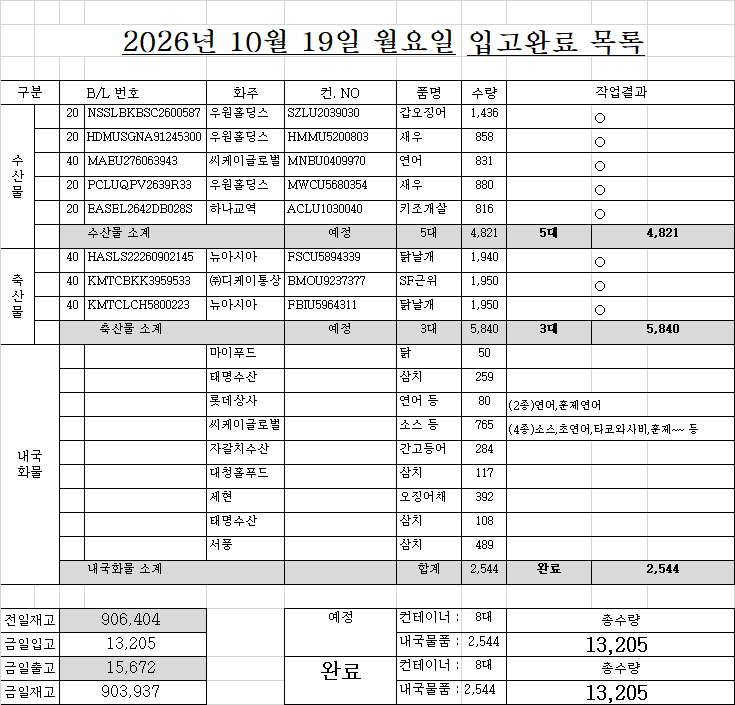
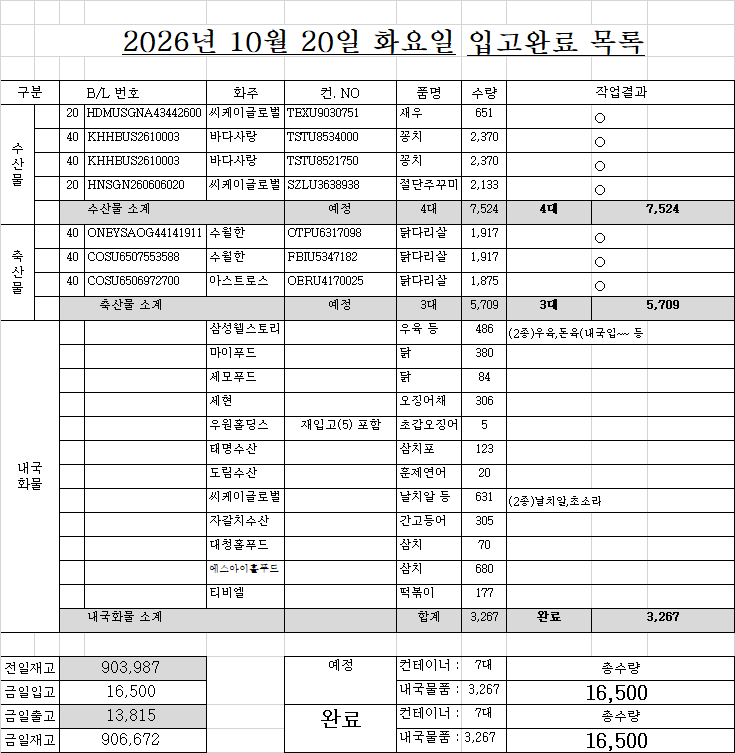
1020

diff --git a/list.html b/list.html
@@ -171,50 +171,48 @@
 <!-- ★★★★★★ 따로 빼 놔야한다. 복붙하면 첫칸 비어도 되는데, 여기서는 첫칸비우면 당겨진다. -->
 <!-- ★ 엑셀범위를 브라우저 textarea에 붙여넣으면 첫셀 비어도 제대로 되는데... HTML에 붙여놓은 자료는 처음셀이 비어있으면 당겨짐 -->
 <div class="d-none" id="원본text_리스트1부터w요약열까지">작성	면허	B/LNO.	화주	컨테이너NO.	품명	수량	반입NO.	입항일	구분	도착일	도착시간	구분	운도VBA	04/27 월 07:21	화찰BL	화찰 선명	화물관리번호	화찰수량	화찰중량	화찰입항	리스트시트기준열	
-1		EGLV235601904750	씨에이치씨	EMCU5816020	새우	924 		10/7	1			20	.BPT신선대	면허?, CY : 신선대감만터미널(주) 신선대CY, 컨진행 : 입항보고 정정완료, 선사 : 장금상선(주)	EGLV235601904750	SURABAYA VOYAGER	26SNKO3682I-8021-	924 	6,930.00 	2026.10.07	10/19 월 16:33	
-1	○	HDMUSGNA43442600	씨케이글로벌	TEXU9030751	새우	651 		10/16	1			20	.HPNT	면허?, CY : 에이치엠엠피에스에이신항만(주), 컨진행 : 반입완료, 선사 : 에이치엠엠(주)	HDMUSGNA43442600	HMM MASTER	26HDMUA569I-0124-	651 	9,439.50 	2026.10.16	조회정보	
-1		HNSGN260606020	씨케이글로벌	SZLU3638938	절단주꾸미	2,133 		10/19	1			20	(ONE).HJNC	면허?, CY : 한진부산컨테이너터미널(주), 컨진행 : 입항적재화물목록 심사완료, 선사 : 오션네트워크익스프레스코리아(주), 포딩 : 마루로직스틱스 유한회사	HNSGN260606020	ONE MANCHESTER	26ONEY1607I-5010-0001	2,133 	15,997.50 	2026.10.19	적재	57
-1	○	ONEYSAOG44141911	수월한	OTPU6317098	닭다리살	1,917 		10/16	2				.HJNC	에이스로지스틱(주), CY : 한진부산컨테이너터미널(주), 컨진행 : 반입완료, 선사 : 오션네트워크익스프레스코리아(주)	ONEYSAOG44141911	ONE TRUTH	26ONEY1641I-7262-	1,917 	23,962.50 	2026.10.16	4,617 	3줄
-1	○	COSU6507553588	수월한	FBIU5347182	닭다리살	1,917 		10/17	2				.BNCT	에이스로지스틱(주), CY : (주)비엔씨티(CY), 컨진행 : 반입완료, 선사 : (주)오오씨엘코리아	COSU6507553588	OOCL BERLIN	26OOLU0156I-3032-	1,917 	23,962.50 	2026.10.17	6,156 	4줄
-1	○	COSU6506972700	아스트로스	OERU4170025	닭다리살	1,875 		10/17	2				.BNCT	(주)골든로지텍, CY : (주)비엔씨티(CY), 컨진행 : 반입완료, 선사 : (주)오오씨엘코리아	COSU6506972700	OOCL BERLIN	26OOLU0156I-3079-	1,875 	23,692.50 	2026.10.17	7,695 	5줄
-2	○	COSU6505268322	마이푸드	FBIU5759045	닭다리살	1,960 		10/17	2				.BNCT	(주)이지트랜스, CY : (주)비엔씨티(CY), 컨진행 : 반입완료, 선사 : (주)오오씨엘코리아	COSU6505268322	OOCL BERLIN	26OOLU0156I-3020-	1,960 	24,500.00 	2026.10.17	9,234 	6줄
-2	○	COSU6505268325	씨제이프레시웨이㈜	OTPU6155886	닭다리살	1,960 		10/17	2				.BNCT	면허?, CY : (주)비엔씨티(CY), 컨진행 : 반입완료, 선사 : (주)오오씨엘코리아	COSU6505268325	OOCL BERLIN	26OOLU0156I-3082-	1,960 	24,500.00 	2026.10.17	구분	대수
-2	○	KHHBUS2609010	바다사랑	TSTU8507725	꽁치	2,360 		10/19	1				(TS).BPT감만	면허?, CY : 신선대감만터미널(주) 감만CY, 컨진행 : 입항적재화물목록 운항정보 정정, 선사 : 덕상티에스라인스(주), 포딩 : (주)가나해운	KHHBUS2609010	TS PUSAN	26TSLUB127I-1033-0001	6,990 	74,470.00 	2026.10.19	출고입고	4주간
-2	○	KHHBUS2609010	바다사랑	TSTU8521003	꽁치	2,320 		10/19	1				(TS).BPT감만	면허?, CY : 신선대감만터미널(주) 감만CY, 컨진행 : 입항적재화물목록 운항정보 정정, 선사 : 덕상티에스라인스(주), 포딩 : (주)가나해운	KHHBUS2609010	TS PUSAN	26TSLUB127I-1033-0001	6,990 	74,470.00 	2026.10.19	1일 7/5	9바닥줄
-2	○	KHHBUS2609010	바다사랑	OTPU6604884	꽁치	2,310 		10/19	1				(TS).BPT감만	면허?, CY : 신선대감만터미널(주) 감만CY, 컨진행 : 입항적재화물목록 운항정보 정정, 선사 : 덕상티에스라인스(주), 포딩 : (주)가나해운	KHHBUS2609010	TS PUSAN	26TSLUB127I-1033-0001	6,990 	74,470.00 	2026.10.19	14,326 	9.3
-2	○	ONEYSGZG09018700	씨케이글로벌	ONEU9302760	열빙어 등	1,938 		10/19	1				.HJNC	면허?, CY : 한진부산컨테이너터미널(주), 컨진행 : 보세운송 신고 접수, 선사 : 오션네트워크익스프레스코리아(주)	ONEYSGZG09018700	ONE MANCHESTER	26ONEY1607I-5277-	1,938 	23,075.80 	2026.10.19	14,430 	9.4
-2	○	TC826100141F	씨케이글로벌	WHLU7423793	절단주꾸미	2,120 		10/19	1			20	(완하이).BPT감만		TC826100141F	WAN HAI 325	26WHLUNS24I-1030-0001	2,120 	15,900.00 	2026.10.19	내국제외	
-2	○	ONEYSGZG09124500	우원홀딩스	SZLU2038158	새우	975 		10/19	1			20			ONEYSGZG09124500	ONE MANCHESTER	26ONEY1607I-5278-	975 	4,575.00 	2026.10.19	구분	대수
-3	○	KHHBUS2610003	바다사랑	TSTU8534000	꽁치	2,370 		10/19	1				(TS).BPT감만	면허?, CY : 신선대감만터미널(주) 감만CY, 컨진행 : 입항적재화물목록 운항정보 정정, 선사 : 덕상티에스라인스(주), 포딩 : (주)가나해운	KHHBUS2610003	TS PUSAN	26TSLUB127I-1047-0001	4,740 	49,790.00 	2026.10.19	수산	15 
-3	○	KHHBUS2610003	바다사랑	TSTU8521750	꽁치	2,370 		10/19	1				(TS).BPT감만	면허?, CY : 신선대감만터미널(주) 감만CY, 컨진행 : 입항적재화물목록 운항정보 정정, 선사 : 덕상티에스라인스(주), 포딩 : (주)가나해운	KHHBUS2610003	TS PUSAN	26TSLUB127I-1047-0001	4,740 	49,790.00 	2026.10.19	축산	38 
-		HDMUSAOA98837200	수월한	HDMU5532775	닭다리살	1,960 		10/16	2				.확인안함								합계	53 
-		ONEYSAOG44149301	대성무역	TTNU8745955	닭다리살	1,960 		10/18	2				.PNIT									
-		HASLS22260901810	뉴아시아	HALU8500976	닭날개	1,917 		10/19	2												화주	대수
-		COSU6453481650	수월한	TEMU9328038	닭다리살	1,917 		10/20	2				.BNCT								수월한	13
-		COSU6508130956	씨제이프레시웨이㈜	OERU4188960	닭다리살	1,960 		10/20	2				.BNCT								씨케이글로벌	5
-		ONEYSGNGZ3458700	우원홀딩스	ONEU8007820	새우	930 		10/20	1			20									바다사랑	5
-		ONEYSGNGZ5842600	우원홀딩스	TRIU6643500	새우	750 		10/20	1			20									참트레이딩	5
-		HDMUSAOA23097900	수월한	TCLU1310837	닭다리살	1,958 		10/21	2				.HPNT								대성무역	3
-		HDMUSAOA02881000	수월한	TLLU1087510	닭다리살	1,953 		10/21	2				.HPNT								대상 주식회사	3
-		YMJAB951092475	아스트로스	YMLU5487169	닭다리살	1,960 		10/21	2												㈜이마트	3
-		MEDUWE282837	대상 주식회사	MEDU9086780	닭다리살	1,980 		10/22	2												우원홀딩스	3
-		HLCURTM260763821	씨케이글로벌	HLBU9194112	열빙어알	890 		10/22	1				.PNC								씨제이프레시웨이㈜	2
-		KMTCLCH5820283	뉴아시아(동일)	FBIU5896428	닭고기	1,950 		10/23	2												뉴아시아	2
-		MEDUR3384324	㈜이마트	MEDU9615225	닭다리살			10/23	2				.PNC			MSC JUBILEE IX					아스트로스	2
-		LMM0810928?	(주)우원	TLLU1034167	새우	1,800 		10/24	1			40	.BNCT								씨에이치씨	1
-		COSU6508305260	대상 주식회사	OERU4050122	닭다리살	1,916 		10/24	2				.BNCT								뉴아시아(동일)	1
-		MAEUJBS327643	수월한	MNBU0422036	닭다리살	1,958 		10/25	2				.PNC								주식회사 아스트로스	1
-		HDMUSAOA46495702	아스트로스	HMMU5506250	닭다리살	1,960 		10/25	2				.확인안함								(주)우원	1
-		MAEUJBS329506	㈜이마트	MNBU3397087	SR조각정육(하프컷)			10/25	2				?????,PNC			MAERSK EUREKA					혜성프로비젼	1
-		MAEUJBS327992	㈜이마트	MNBU3734589	SR조각정육(하프컷)			10/25	2				?????,PNC			SAN LORENZO					마이푸드	1
-		MAEUJBS327452	혜성프로비젼	MNBU3583836	닭다리살	1,958 		10/25	2				.PNC								수월한 주식회사	1
-		YMJAB951092501	수월한	YMLU5523693	닭다리살	1,960 		10/27	2													
-		MAEUJBS330859	참트레이딩	MNBU0485306	닭다리살	1,958 		10/31	2				.PNC									
-		HDMUSAOA59781501	대성무역	HMMU5417131	닭장각	1,568 		11/1	2				.확인안함									
-		MEDUAAI37286	참트레이딩	MEDU9035741	닭다리살	1,958 		11/2	2				.PNIT									
-		MEDUWE285228	참트레이딩	SZLU9086965	닭다리살	1,958 		11/2	2				.PNIT									
+1		EGLV235601904750	씨에이치씨	EMCU5816020	새우	924 		10/7	1			20	.BPT신선대	면허?, CY : 신선대감만터미널(주) 신선대CY, 컨진행 : 입항보고 정정완료, 선사 : 장금상선(주)	EGLV235601904750	SURABAYA VOYAGER	26SNKO3682I-8021-	924 	6,930.00 	2026.10.07	10/20 화 16:46	
+1	○	KHHBUS2609010	바다사랑	TSTU8507725	꽁치	2,360 		10/19	1				(TS).BPT감만	(주)에스에스물류, CY : 신선대감만터미널(주) 감만CY, 컨진행 : 보세운송 신고 수리, 선사 : 덕상티에스라인스(주), 포딩 : (주)가나해운	KHHBUS2609010	TS PUSAN	26TSLUB127I-1033-0001	6,990 	74,470.00 	2026.10.19	조회정보	
+1	○	KHHBUS2609010	바다사랑	TSTU8521003	꽁치	2,320 		10/19	1				(TS).BPT감만	(주)에스에스물류, CY : 신선대감만터미널(주) 감만CY, 컨진행 : 보세운송 신고 수리, 선사 : 덕상티에스라인스(주), 포딩 : (주)가나해운	KHHBUS2609010	TS PUSAN	26TSLUB127I-1033-0001	6,990 	74,470.00 	2026.10.19	적재	57
+1	○	KHHBUS2609010	바다사랑	OTPU6604884	꽁치	2,310 		10/19	1				(TS).BPT감만	(주)에스에스물류, CY : 신선대감만터미널(주) 감만CY, 컨진행 : 보세운송 신고 수리, 선사 : 덕상티에스라인스(주), 포딩 : (주)가나해운	KHHBUS2609010	TS PUSAN	26TSLUB127I-1033-0001	6,990 	74,470.00 	2026.10.19	4,617 	3줄
+1	○	ONEYSGZG09018700	씨케이글로벌	ONEU9302760	열빙어 등	1,938 		10/19	1				.HJNC	(주)이지트랜스, CY : 한진부산컨테이너터미널(주), 컨진행 : 반입완료, 선사 : 오션네트워크익스프레스코리아(주)	ONEYSGZG09018700	ONE MANCHESTER	26ONEY1607I-5277-	1,938 	23,075.80 	2026.10.19	6,156 	4줄
+1	○	TC826100141F	씨케이글로벌	WHLU7423793	절단주꾸미	2,120 		10/19	1			20	(완하이).BPT감만	(주)이지트랜스, CY : 신선대감만터미널(주) 감만CY, 컨진행 : 하선신고 수리완료, 선사 : 만해항운 한국(주), 포딩 : 주식회사 골드웨이	TC826100141F	WAN HAI 325	26WHLUNS24I-1030-0001	2,120 	15,900.00 	2026.10.19	7,695 	5줄
+1	○	ONEYSGZG09124500	우원홀딩스	SZLU2038158	새우	975 		10/19	1			20		(주)에스에스물류, CY : 한진부산컨테이너터미널(주), 컨진행 : 입항적재화물목록 운항정보 정정, 선사 : 오션네트워크익스프레스코리아(주)	ONEYSGZG09124500	ONE MANCHESTER	26ONEY1607I-5278-	975 	4,575.00 	2026.10.19	9,234 	6줄
+1	○	COSU6505268322	마이푸드	FBIU5759045	닭다리살	1,960 		10/17	2	10/19	16:48		.BNCT	(주)이지트랜스, CY : (주)비엔씨티(CY), 컨진행 : 반출완료, 선사 : (주)오오씨엘코리아	COSU6505268322	OOCL BERLIN	26OOLU0156I-3020-	1,960 	24,500.00 	2026.10.17	구분	대수
+1	○	COSU6505268325	씨제이프레시웨이㈜	OTPU6155886	닭다리살	1,960 		10/17	2				.BNCT	동원로엑스㈜, CY : (주)비엔씨티(CY), 컨진행 : 보세운송 신고 수리, 선사 : (주)오오씨엘코리아	COSU6505268325	OOCL BERLIN	26OOLU0156I-3082-	1,960 	24,500.00 	2026.10.17	출고입고	4주간
+1	○	ONEYSAOG44149301	대성무역	TTNU8745955	닭다리살	1,960 		10/20	2				.PNIT	면허?, CY : 부산신항국제터미널(주), 컨진행 : 입항적재화물목록 운항정보 정정, 선사 : 엠에스씨코리아(주)	ONEYSAOG44149301	MSC VALENTINA	26MSCU6301I-2033-	1,960 	24,500.00 	2026.10.20	1일 7/5	9바닥줄
+		HDMUSAOA98837200	수월한	HDMU5532775	닭다리살	1,960 		10/16	2				.확인안함								14,371 	9.3
+		HASLS22260901810	뉴아시아	HALU8500976	닭날개	1,917 		10/20	2					면허?, CY : 신선대감만터미널(주) 신선대CY, 컨진행 : 입항적재화물목록 운항정보 정정, 선사 : 장금상선(주)	HASLS22260901810	SAWASDEE SPICA	26SNKO3810I-2071-	1,917 	24,154.20 	2026.10.20	15,007 	9.8
+		COSU6453481650	수월한	TEMU9328038	닭다리살	1,917 		10/20	2				.BNCT								내국제외	
+		COSU6508130956	씨제이프레시웨이㈜	OERU4188960	닭다리살	1,960 		10/20	2				.BNCT								구분	대수
+		ONEYSGNGZ3458700	우원홀딩스	ONEU8007820	새우	930 		10/20	1			20		면허?, CY : 신선대감만터미널(주) 신선대CY, 컨진행 : 입항적재화물목록 심사완료, 선사 : 남성해운주식회사	ONEYSGNGZ3458700	STARSHIP MERCURY	26NSSLJ052I-5077-	930 	7,440.00 	2026.10.20	수산	16 
+		ONEYSGNGZ5842600	우원홀딩스	TRIU6643500	새우	750 		10/20	1			20		면허?, CY : 신선대감만터미널(주) 신선대CY, 컨진행 : 입항적재화물목록 심사완료, 선사 : 남성해운주식회사	ONEYSGNGZ5842600	STARSHIP MERCURY	26NSSLJ052I-5079-	750 	6,000.00 	2026.10.20	축산	35 
+		HDMUSAOA23097900	수월한	TCLU1310837	닭다리살	1,958 		10/21	2				.HPNT								합계	51 
+		HDMUSAOA02881000	수월한	TLLU1087510	닭다리살	1,953 		10/21	2				.HPNT									
+		YMJAB951092475	아스트로스	YMLU5487169	닭다리살	1,960 		10/21	2												화주	대수
+		MEDUWE282837	대상 주식회사	MEDU9086780	닭다리살	1,980 		10/22	2												수월한	11
+		MEDUW9742117	롯데상사	MEDU9852398	연어	825 		10/22	1												참트레이딩	5
+		HLCUSCL260904849	롯데상사	HLBU9678631	연어	843 		10/22	1												우원홀딩스	3
+		HLCUSCL260869780	롯데상사	HLXU8795610	연어	844 		10/22	1												대성무역	3
+		HLCURTM260763821	씨케이글로벌	HLBU9194112	열빙어알	890 		10/22	1				.PNC								바다사랑	3
+		COHECAS44226926	하나교역	OOLU6136624	다슬기	1,600 		10/22	1												대상 주식회사	3
+		KMTCLCH5820283	뉴아시아(동일)	FBIU5896428	닭고기	1,950 		10/23	2												롯데상사	3
+		MEDUR3384324	㈜이마트	MEDU9615225	닭다리살			10/23	2				.PNC			MSC JUBILEE IX					㈜이마트	3
+		LMM0810928?	(주)우원	TLLU1034167	새우	1,800 		10/24	1			40	.BNCT								씨케이글로벌	3
+		COSU6508305260	대상 주식회사	OERU4050122	닭다리살	1,916 		10/24	2				.BNCT								뉴아시아	2
+		MAEUJBS327643	수월한	MNBU0422036	닭다리살	1,958 		10/25	2				.PNC								아스트로스	2
+		HDMUSAOA46495702	아스트로스	HMMU5506250	닭다리살	1,960 		10/25	2				.확인안함								씨제이프레시웨이㈜	2
+		MAEUJBS329506	㈜이마트	MNBU3397087	SR조각정육(하프컷)			10/25	2				?????,PNC			MAERSK EUREKA					하나교역	1
+		MAEUJBS327992	㈜이마트	MNBU3734589	SR조각정육(하프컷)			10/25	2				?????,PNC			SAN LORENZO					뉴아시아(동일)	1
+		MAEUJBS327452	혜성프로비젼	MNBU3583836	닭다리살	1,958 		10/25	2				.PNC								마이푸드	1
+		YMJAB951092501	수월한	YMLU5523693	닭다리살	1,960 		10/27	2												(주)우원	1
+		MAEUJBS330859	참트레이딩	MNBU0485306	닭다리살	1,958 		10/31	2				.PNC								혜성프로비젼	1
+		HDMUSAOA59781501	대성무역	HMMU5417131	닭장각	1,568 		11/1	2				.확인안함								씨에이치씨	1
+		MEDUAAI37286	참트레이딩	MEDU9035741	닭다리살	1,958 		11/2	2				.PNIT								씨코스트	1
+		MEDUWE285228	참트레이딩	SZLU9086965	닭다리살	1,958 		11/2	2				.PNIT								수월한 주식회사	1
 		MEDUAAI33400	참트레이딩	TRLU1896352	닭다리살	1,945 		11/2	2				.PNIT									
 		MAEUJBS328088	수월한	MNBU0340489	닭다리살	1,839 		11/3	2				.확인안함									
+		BHA0123188	씨코스트	TTNU8236710	절단게	2,850 		11/4	1													
 		MAEUJBS330744	수월한	SUDU8072963	닭다리살	1,958 		11/7	2				.확인안함									
 		MAEUJBS330421	수월한	TLLU1168567	닭다리살	1,958 		11/14	2				.확인안함									
 		MAEUJBS330940	수월한	MNBU0066629	닭다리살	1,868 		11/14	2				.확인안함									
@@ -224,7 +222,7 @@
 		YMJAB951092499	대상 주식회사	SEKU9320272	닭장각	1,568 			2													
 		COSU6508709367	수월한	OERU4323274	닭다리살	1,917 			2													
 		MAEUJBS332507	참트레이딩	MMAU1302231	닭다리살	1,958 			2													
-		COHECAS44226926	하나교역	OOLU6136624	다슬기	1,600 		10/22	1													
+		KMTCPKG2774990	우원홀딩스	SEGU9724109	새우	1,284 		10/25	1			20										
 
 </div>
 <div class="d-none" id="원본text_입항관리도크부터도착항우측까지">도크	화주	컨테이너	작업순서	상세내용 참조		운송사	물품		06/05 목 16:15	B/L	도착항	상세내용
